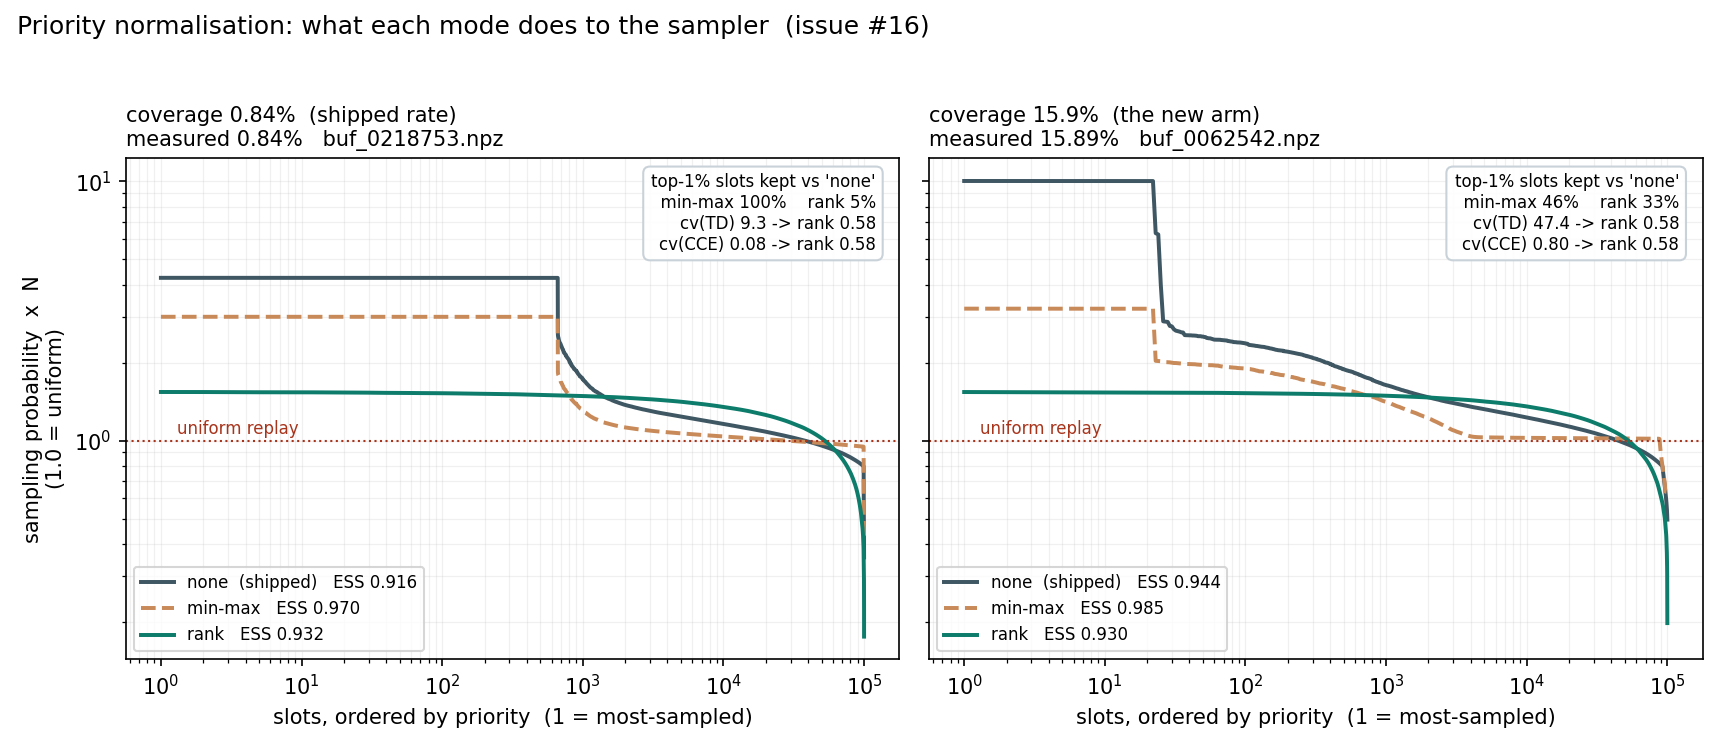
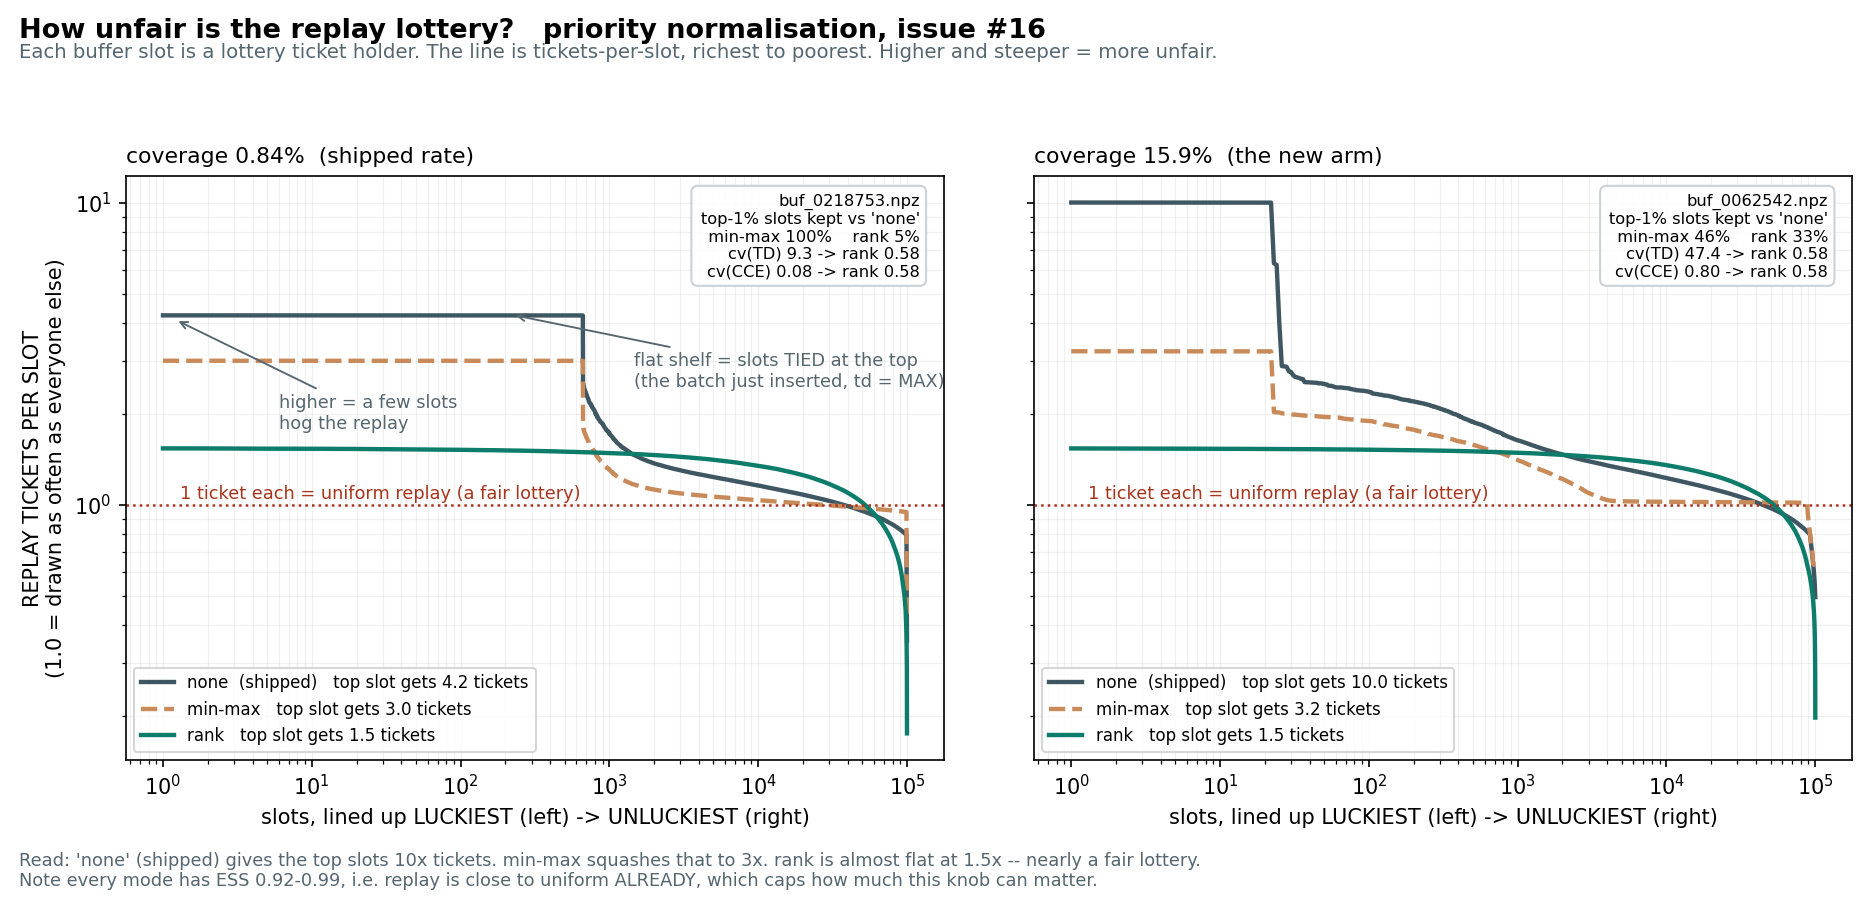
Redraw the normalisation figure as a replay lottery
The log-log priority curve was unreadable without the axis meanings spelled out.
Reframed: each slot is a lottery ticket holder, y is tickets-per-slot (1.0 =
uniform replay), x runs luckiest to poorest. Read-the-chart annotations placed
from the data so they cannot collide with the title or the stats box, and only on
the left panel -- the lesson is identical in both and the right one has no free
space.

Claude-Session: https://claude.ai/code/session_01LTwz2FieXcd96TvbSkaRAQ

diff --git a/analysis/claim2/priority_normalisation.py b/analysis/claim2/priority_normalisation.py
@@ -81,8 +81,8 @@ def main():
     import matplotlib.pyplot as plt
     panels = [("greedy_base_max", "coverage 0.84%  (shipped rate)"),
               ("greedy_cov_max", "coverage 15.9%  (the new arm)")]
-    fig, axes = plt.subplots(1, 2, figsize=(11.5, 5.0), dpi=150, sharey=True)
-    for ax, (arm, subtitle) in zip(axes, panels):
+    fig, axes = plt.subplots(1, 2, figsize=(12.5, 6.0), dpi=150, sharey=True)
+    for pi, (ax, (arm, subtitle)) in enumerate(zip(axes, panels)):
         got = _load(arm)
         if got is None:
             ax.text(.5, .5, f"{arm}\nno snapshot yet", ha="center", transform=ax.transAxes)
@@ -92,27 +92,55 @@ def main():
         n = cs.size
         for mode, lab, colour, ls in MODES:
             p = np.sort(rows[mode]["p"])[::-1] * n     # priority relative to uniform
-            ax.plot(np.arange(1, n + 1), p, color=colour, ls=ls, lw=1.9,
-                    label=f"{lab}   ESS {rows[mode]['ess']:.3f}")
-        ax.axhline(1.0, color="#a8341c", lw=1.0, ls=":")
-        ax.text(1.3, 1.06, "uniform replay", fontsize=8, color="#a8341c")
+            ax.plot(np.arange(1, n + 1), p, color=colour, ls=ls, lw=2.1,
+                    label=f"{lab}   top slot gets {rows[mode]['peak']:.1f} tickets")
+        ax.axhline(1.0, color="#a8341c", lw=1.2, ls=":")
+        ax.text(1.3, 1.05, "1 ticket each = uniform replay (a fair lottery)",
+                fontsize=8.5, color="#a8341c")
         ax.set_xscale("log"); ax.set_yscale("log")
-        ax.set_xlabel("slots, ordered by priority  (1 = most-sampled)")
-        ax.set_title(f"{subtitle}\nmeasured {(sa >= 0).mean()*100:.2f}%   {fname}",
-                     fontsize=10, loc="left")
+        ax.set_xlabel("slots, lined up LUCKIEST (left) -> UNLUCKIEST (right)")
+        # Read-the-chart guides on the LEFT panel only. The lesson is identical in
+        # both and the right panel has no free space that clears the stats box.
+        pn = np.sort(rows["none"]["p"])[::-1] * n
+        peak = pn[0]
+        shelf_end = int(np.argmax(pn < 0.99 * peak)) or 1      # where the tie-mass ends
+        if pi == 0:
+          ax.annotate("higher = a few slots\nhog the replay",
+                      xy=(1.2, peak * 0.97), xytext=(6, peak * 0.42),
+                      fontsize=8.5, color="#55666f",
+                      arrowprops=dict(arrowstyle="->", color="#55666f", lw=.9))
+          ax.annotate("flat shelf = slots TIED at the top\n"
+                      "(the batch just inserted, td = MAX)",
+                      xy=(max(2, shelf_end // 3), peak * 1.005),
+                      xytext=(max(6, shelf_end) * 2.2, peak * 0.58),
+                      fontsize=8.5, color="#55666f",
+                      arrowprops=dict(arrowstyle="->", color="#55666f", lw=.9))
+        ax.set_title(subtitle, fontsize=10.5, loc="left", pad=6)
         ax.grid(alpha=.18, lw=.6, which="both")
         ax.legend(fontsize=8, loc="lower left")
-        txt = (f"top-1% slots kept vs 'none'\n"
+        txt = (f"{fname}\n"
+               f"top-1% slots kept vs 'none'\n"
                f"  min-max {100*rows['minmax']['overlap']:.0f}%"
                f"    rank {100*rows['rank']['overlap']:.0f}%\n"
                f"cv(TD) {rows['none']['cv_td']:.1f} -> rank {rows['rank']['cv_td']:.2f}\n"
                f"cv(CCE) {rows['none']['cv_cce']:.2f} -> rank {rows['rank']['cv_cce']:.2f}")
-        ax.text(.97, .97, txt, transform=ax.transAxes, ha="right", va="top", fontsize=8,
+        ax.text(.97, .97, txt, transform=ax.transAxes, ha="right", va="top", fontsize=7.8,
                 bbox=dict(boxstyle="round,pad=0.4", fc="white", ec="#c5cfd6", alpha=.92))
-    axes[0].set_ylabel("sampling probability  x  N\n(1.0 = uniform)")
-    fig.suptitle("Priority normalisation: what each mode does to the sampler  (issue #16)",
-                 fontsize=12, x=.01, ha="left")
-    fig.tight_layout(rect=[0, 0, 1, .95])
+    axes[0].set_ylabel("REPLAY TICKETS PER SLOT\n"
+                       "(1.0 = drawn as often as everyone else)")
+    fig.suptitle("How unfair is the replay lottery?   priority normalisation, issue #16",
+                 fontsize=13, x=.01, ha="left", weight="bold")
+    fig.text(.01, .935,
+             "Each buffer slot is a lottery ticket holder. The line is tickets-per-slot, "
+             "richest to poorest. Higher and steeper = more unfair.",
+             fontsize=9.5, color="#55666f")
+    fig.text(.01, .015,
+             "Read: 'none' (shipped) gives the top slots 10x tickets. min-max squashes that to "
+             "3x. rank is almost flat at 1.5x -- nearly a fair lottery.\n"
+             "Note every mode has ESS 0.92-0.99, i.e. replay is close to uniform ALREADY, "
+             "which caps how much this knob can matter.",
+             fontsize=8.5, color="#55666f")
+    fig.tight_layout(rect=[0, .055, 1, .915])
     out = os.path.join(OUT, "priority_normalisation.png")
     fig.savefig(out); print("wrote", out)
     for arm, _ in panels:
